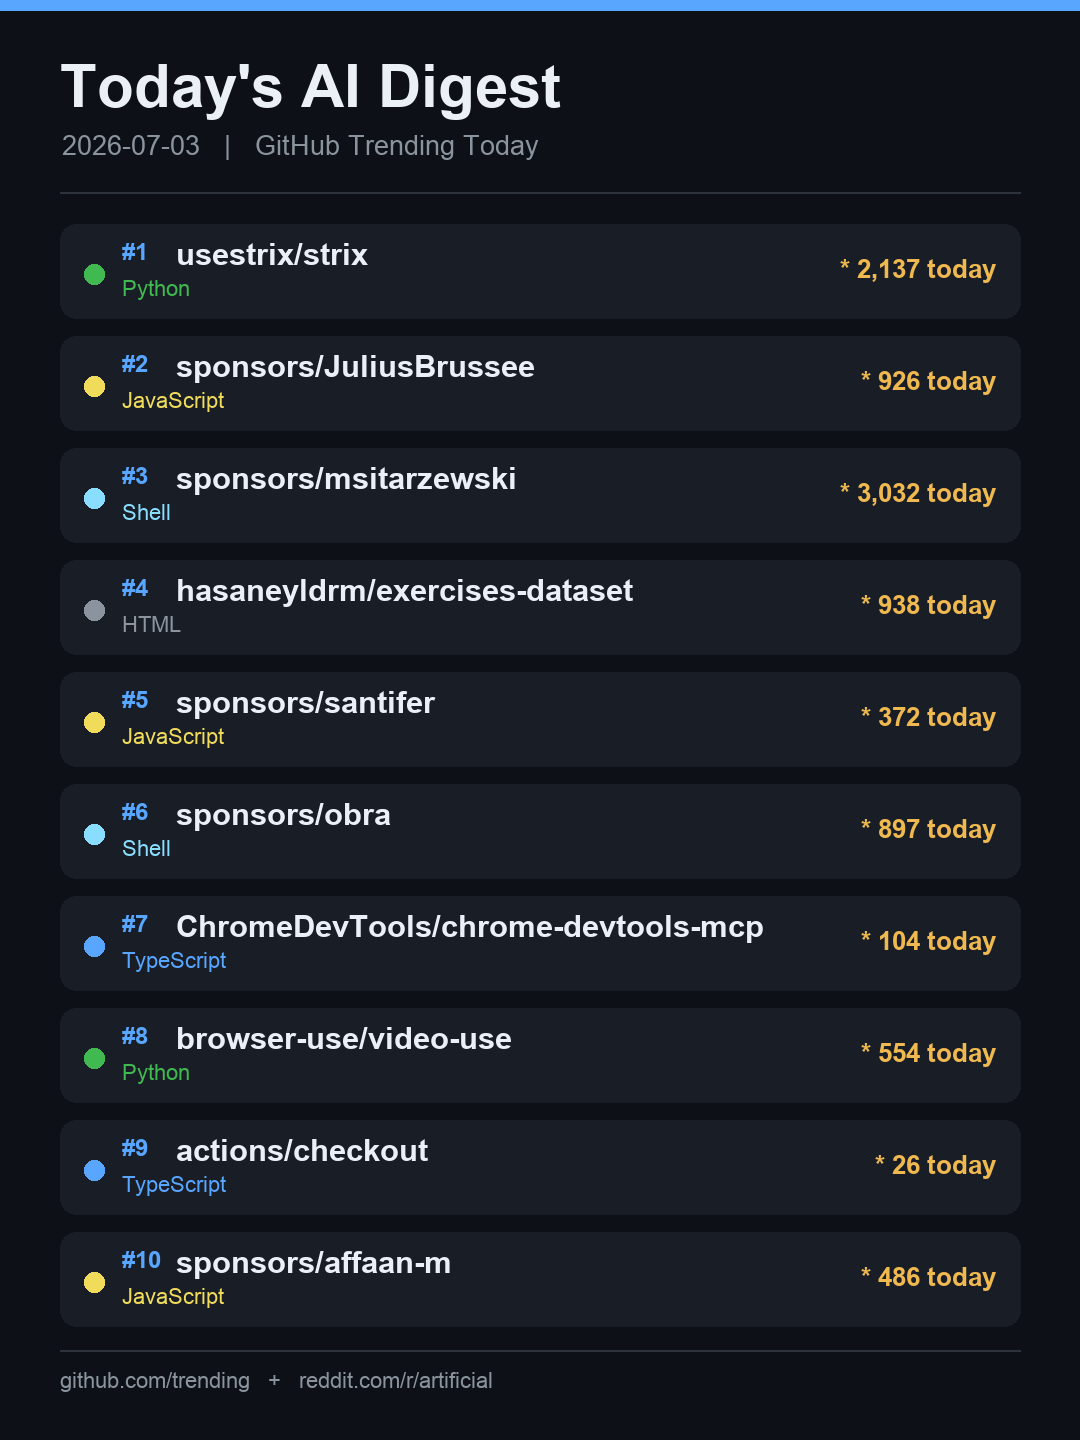
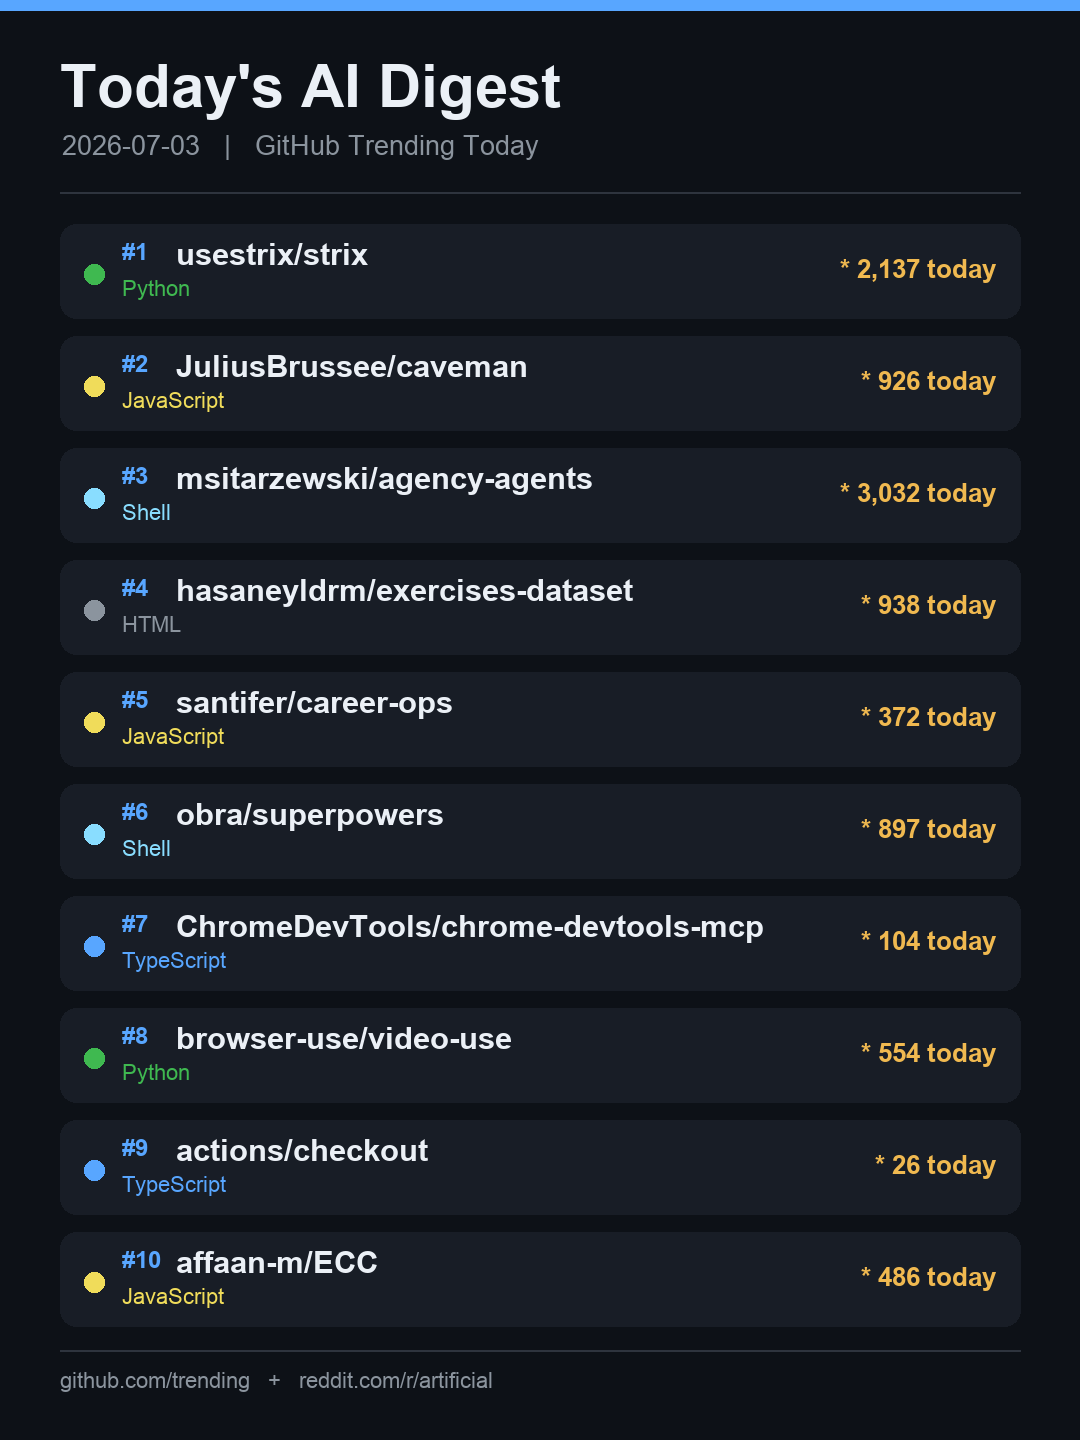
Fix trending scraper grabbing /sponsors links instead of the repo
Anchor the repo match to the <h2> heading so sponsor links in some rows
no longer shadow the real owner/repo. Regenerate preview.

diff --git a/digest.py b/digest.py
@@ -43,12 +43,14 @@ def fetch_github_trending(limit: int = 10) -> list[dict]:
     html_text = r.text
 
     repos: list[dict] = []
-    # Each repo row is an <article class="Box-row"> block.
+    # Each repo row is an <article class="Box-row"> block. The repo link lives
+    # in the <h2> heading — match that specifically so we don't accidentally
+    # grab the "/sponsors/<user>" link that appears earlier in some rows.
     for block in re.split(r'<article class="Box-row">', html_text)[1:]:
-        m = re.search(r'href="/([^"/]+)/([^"]+)"', block)
+        m = re.search(r'<h2[^>]*>\s*<a[^>]+href="/([^"/]+)/([^"?#]+)"', block, re.S)
         if not m:
             continue
-        owner, name = m.group(1), m.group(2).split('"')[0]
+        owner, name = m.group(1), m.group(2).strip()
         full = f"{owner}/{name}"
 
         desc_m = re.search(r'<p class="col-9[^"]*">\s*(.*?)\s*</p>', block, re.S)